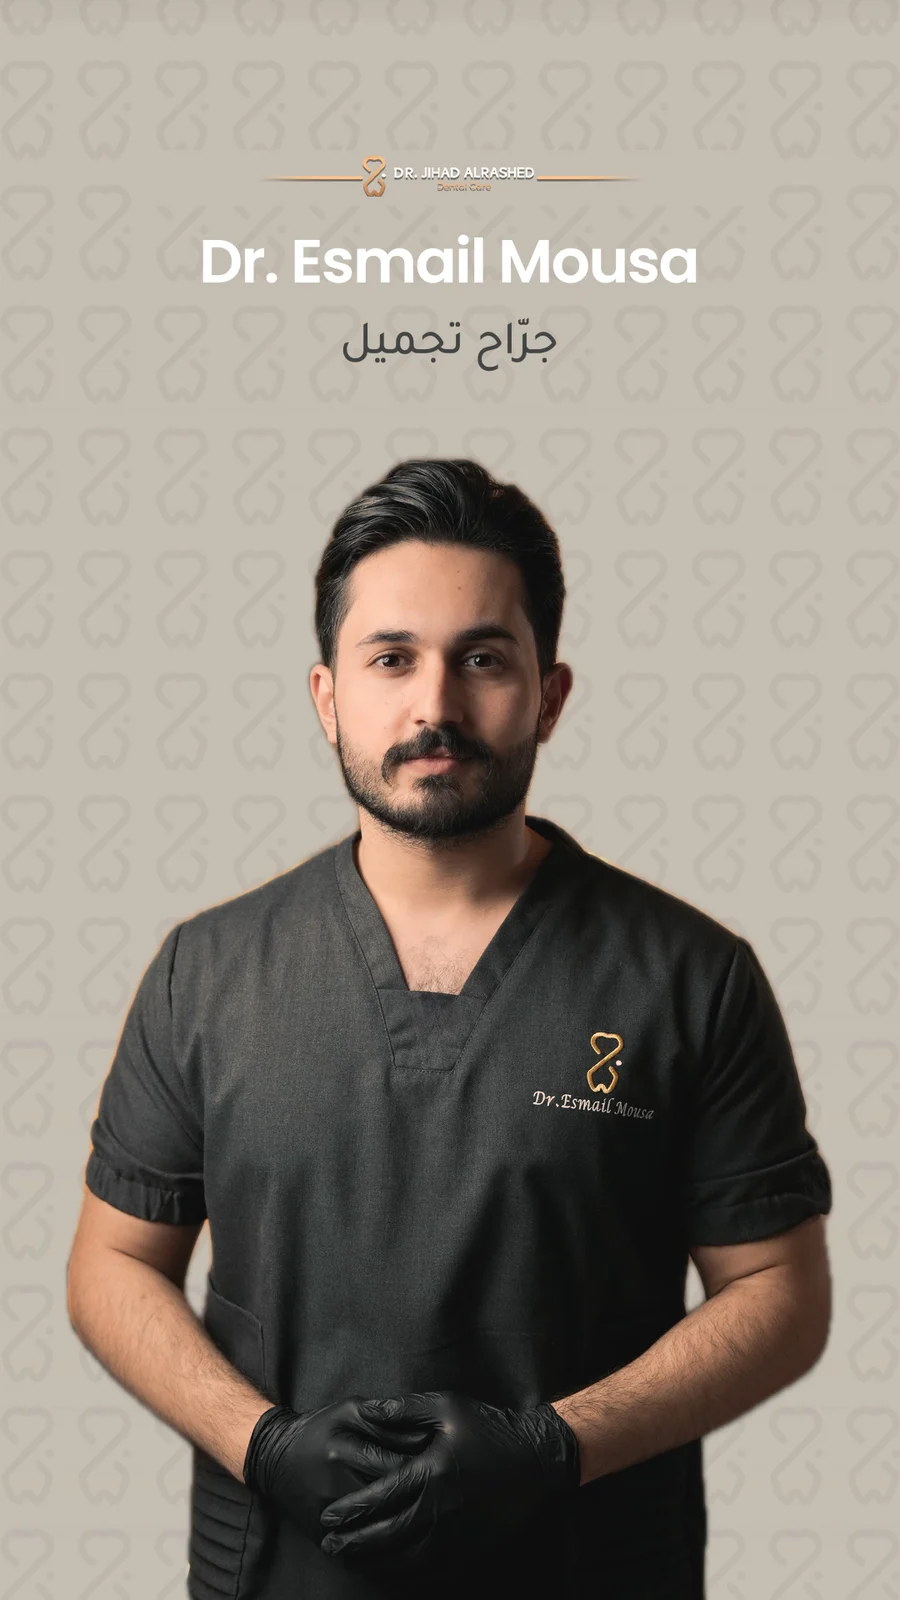
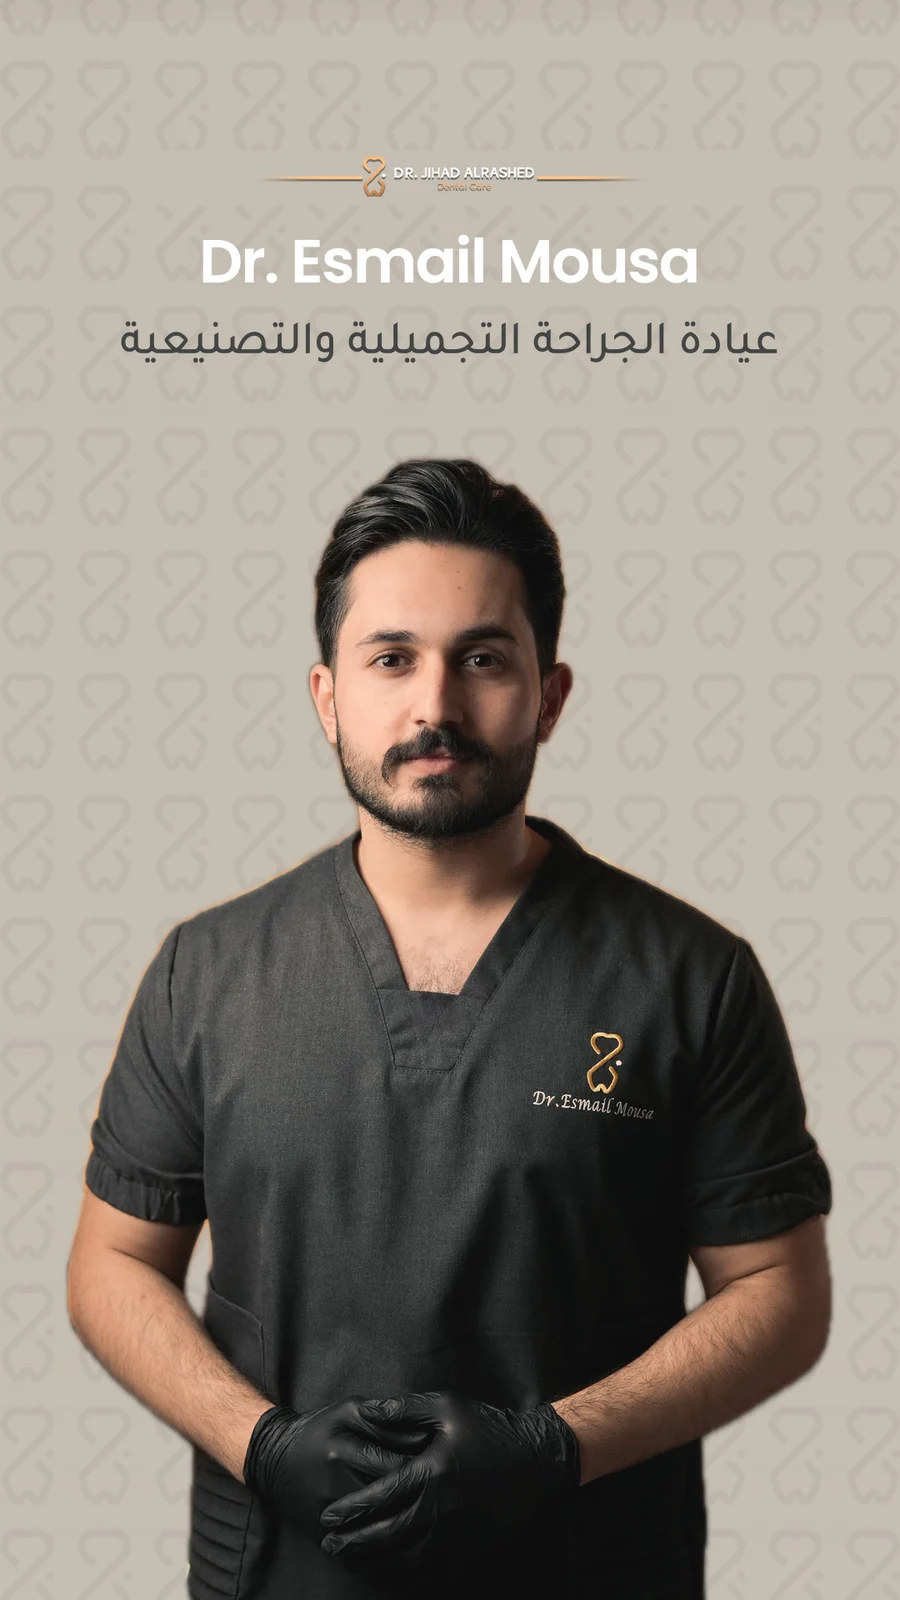
Set Dr. Esmail's strapline, and stop the type renderer clipping in silence
His card is the one built here rather than supplied — the clinic had no
studio card for him — so the strapline is a string in
card-composite.mjs, and it becomes عيادة الجراحة التجميلية والتصنيعية.
The doctor's own description in i18n.js is untouched; this is the ink on
the card.

The first attempt came out reading يادة. render-text.swift drew onto a
4200px canvas sized for the straplines it was written for, and this one
advances 4323px — so it overran, and because Arabic lays out right to
left what fell off the end was the START of the string. CTLineDraw clips
to the context and reports nothing, so the run reported success and
wrote a card missing its first letter.

The canvas goes to 6400, and a line that does not fit now fails the run
instead. That guard matters more than the width does: this was invisible
except by looking, and the next long string would have been too.

Card rebuilt from the original photograph and republished through the
same scale/cwebp path media.sh uses. Measured against the clinic's own
cards, the strapline sets 49px tall on the same baseline — Dr. Leen's
reference is 56 and Dr. Jihad's is 46 — and is wider only because the
phrase is longer, with 146px clear either side.

Claude-Session: https://claude.ai/code/session_01SmC3NK7N5o9AEtvz8DUeRA

diff --git a/scripts/render-text.swift b/scripts/render-text.swift
@@ -42,7 +42,24 @@ let line = CTLineCreateWithAttributedString(NSAttributedString(string: text, att
 
 // A canvas with room for any of these strings, and a baseline far enough in
 // from the edges that ascenders and descenders both fit.
-let W = 4200, H = 700, BASELINE = 420.0, LEFT = 60.0
+//
+// 6400 rather than the 4200 this started at, which fitted the straplines it was
+// written for and nothing longer. A 34-character Arabic line at 300pt advances
+// 4323px and ran off the end — and because Arabic lays out right to left, what
+// fell off was the START of the string, so the card came out reading "يادة"
+// where it should read "عيادة". Silently, which is the worse half. Hence the
+// guard below: a line that does not fit is a failed run now, not a card with
+// its first letter quietly missing.
+let W = 6400, H = 700, BASELINE = 420.0, LEFT = 60.0
+
+// Measured before anything is drawn. CTLineDraw clips to the context and
+// reports nothing, so this is the only place an overrun is visible at all.
+let advance = CTLineGetTypographicBounds(line, nil, nil, nil)
+if LEFT + advance > Double(W) {
+    let msg = "render-text: the line advances \(String(format: "%.1f", advance))px from x=\(LEFT), past the \(W)px canvas. It would be clipped - for Arabic, at the START of the string. Raise W in scripts/render-text.swift.\n"
+    FileHandle.standardError.write(Data(msg.utf8))
+    exit(1)
+}
 
 guard let ctx = CGContext(data: nil, width: W, height: H, bitsPerComponent: 8,
                           bytesPerRow: W*4, space: CGColorSpaceCreateDeviceRGB(),
